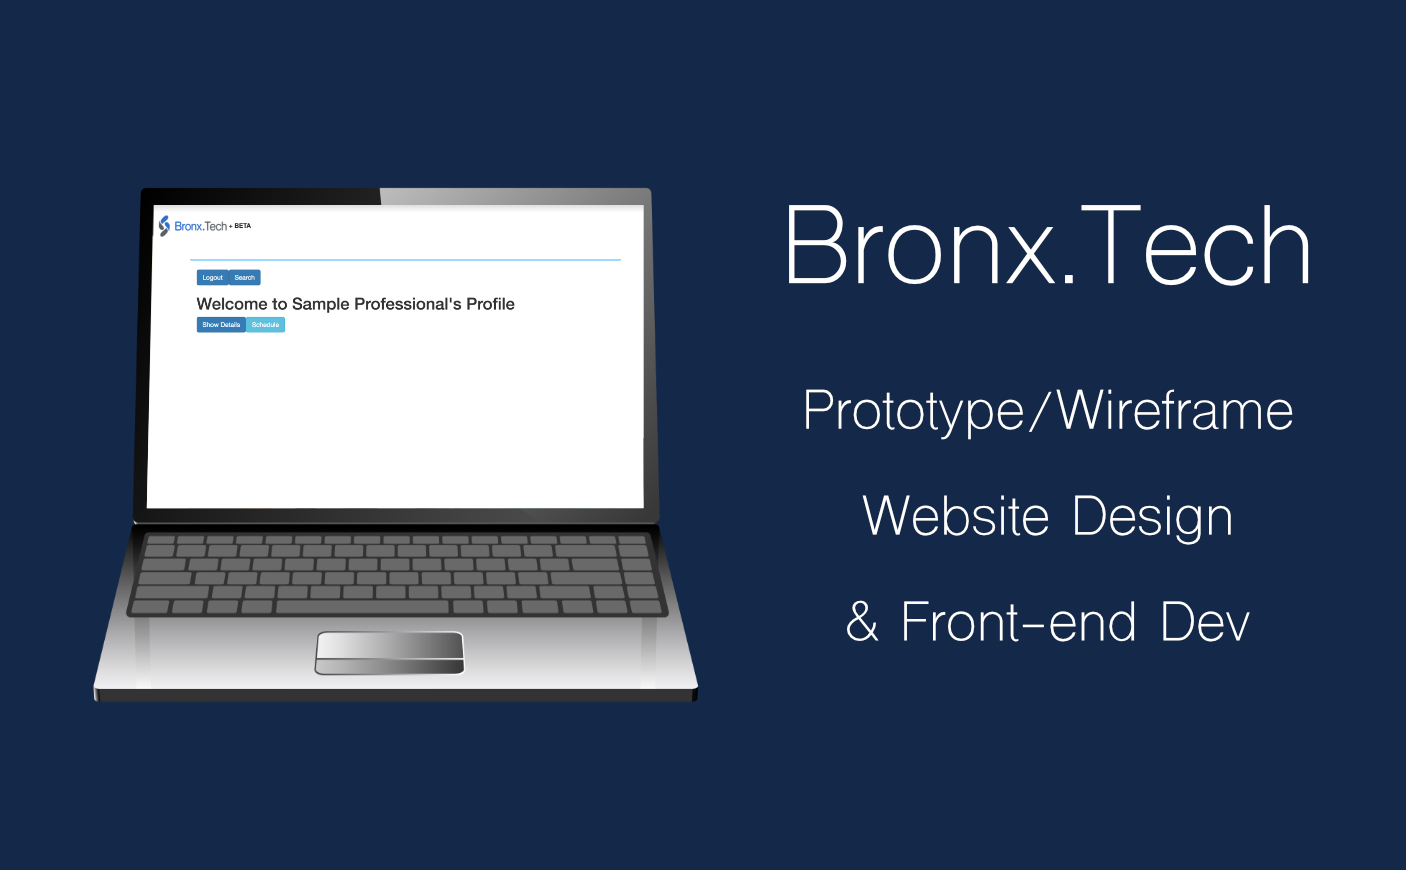
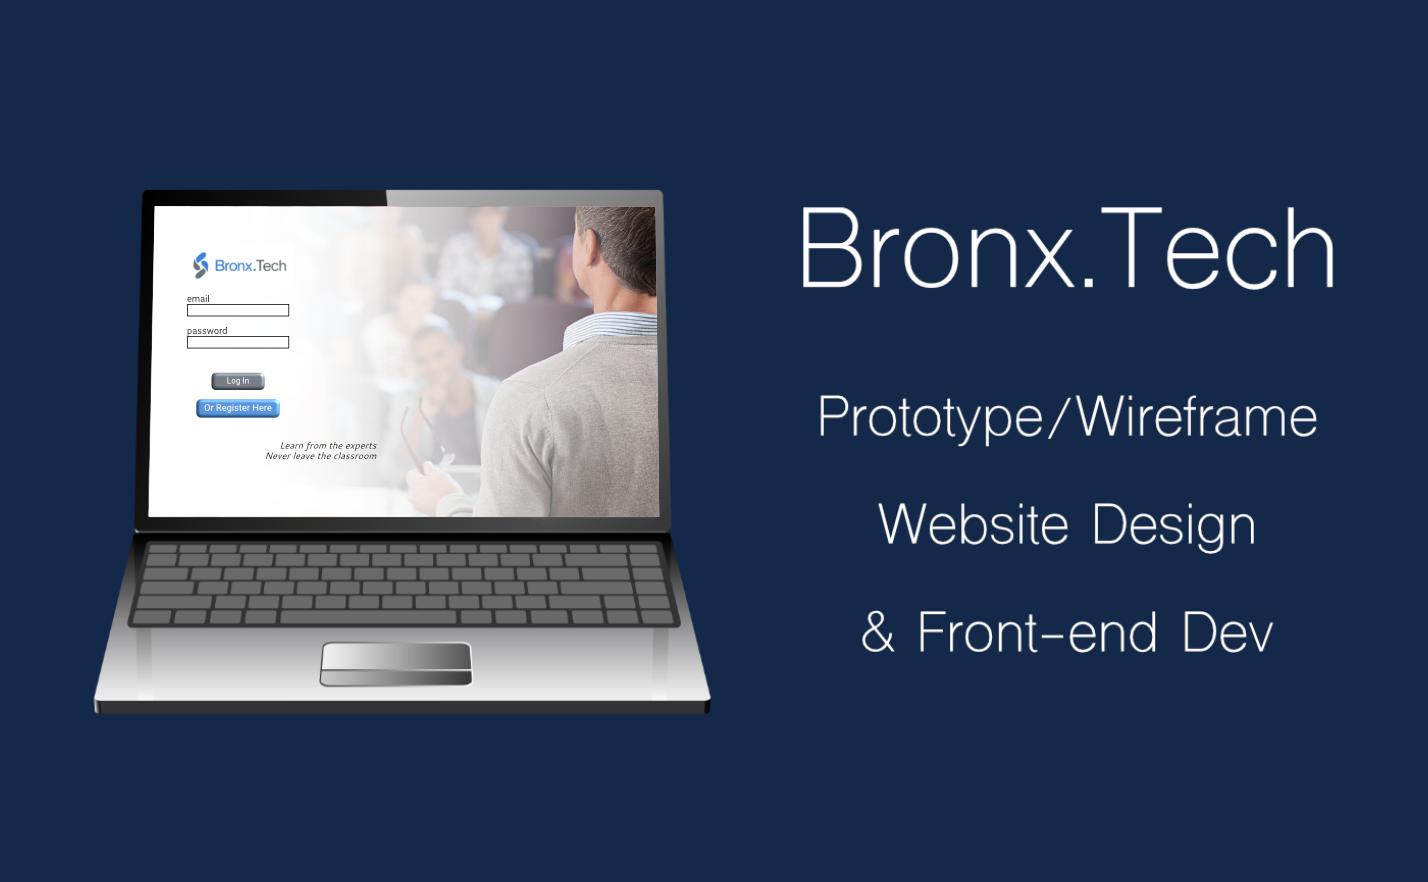
new cover photo

diff --git a/src/components/Projects.js b/src/components/Projects.js
@@ -51,7 +51,7 @@ http://rebrand.ly/meetup_case_study
 </a>
 
 {/* https://joncancode.github.io/bronx_case_study/ */}
-<a href="http://rebrand.ly/bronx_case_study/" target="_new" style={styles.cover_link} >
+<a href="http://rebrand.ly/bronx_case_study/" style={styles.cover_link} >
           <img 
           src={cover_bronx} alt="jh" height="220px" width="400px"/>
           </a><br></br>
